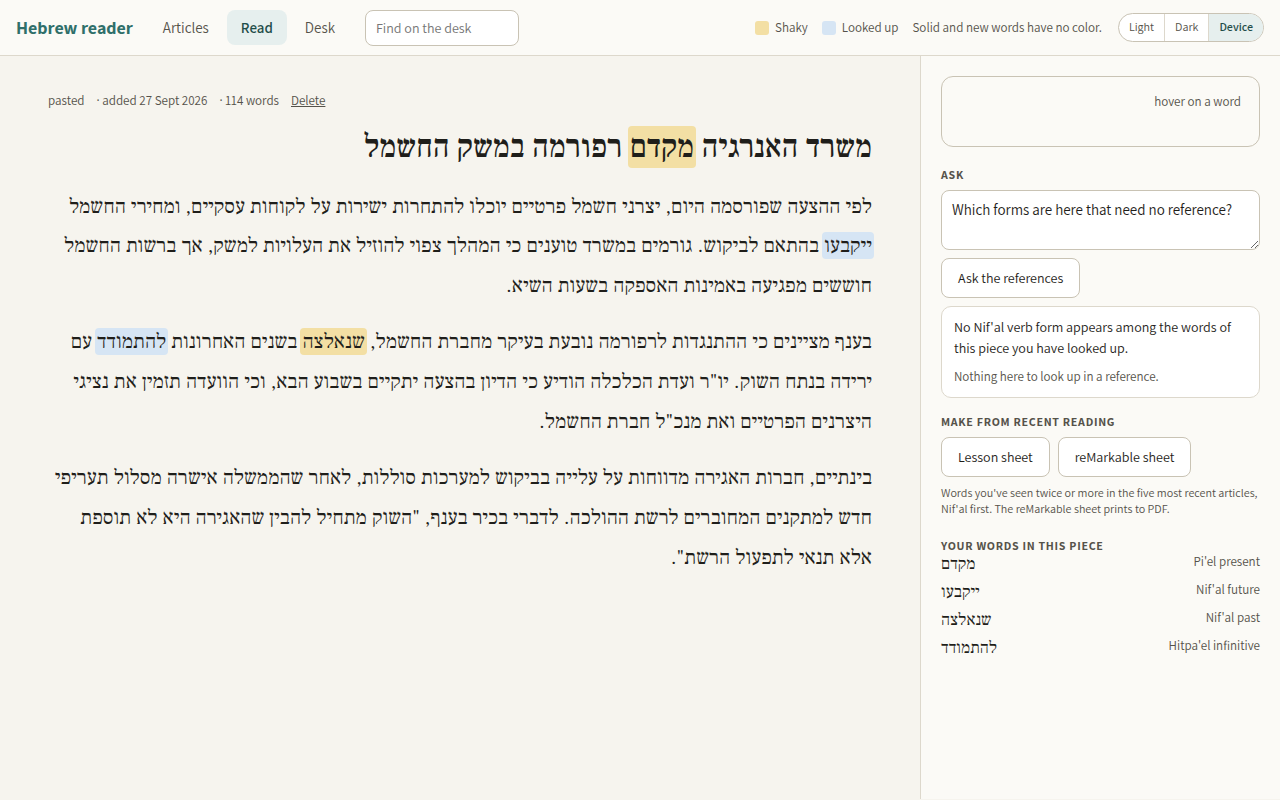
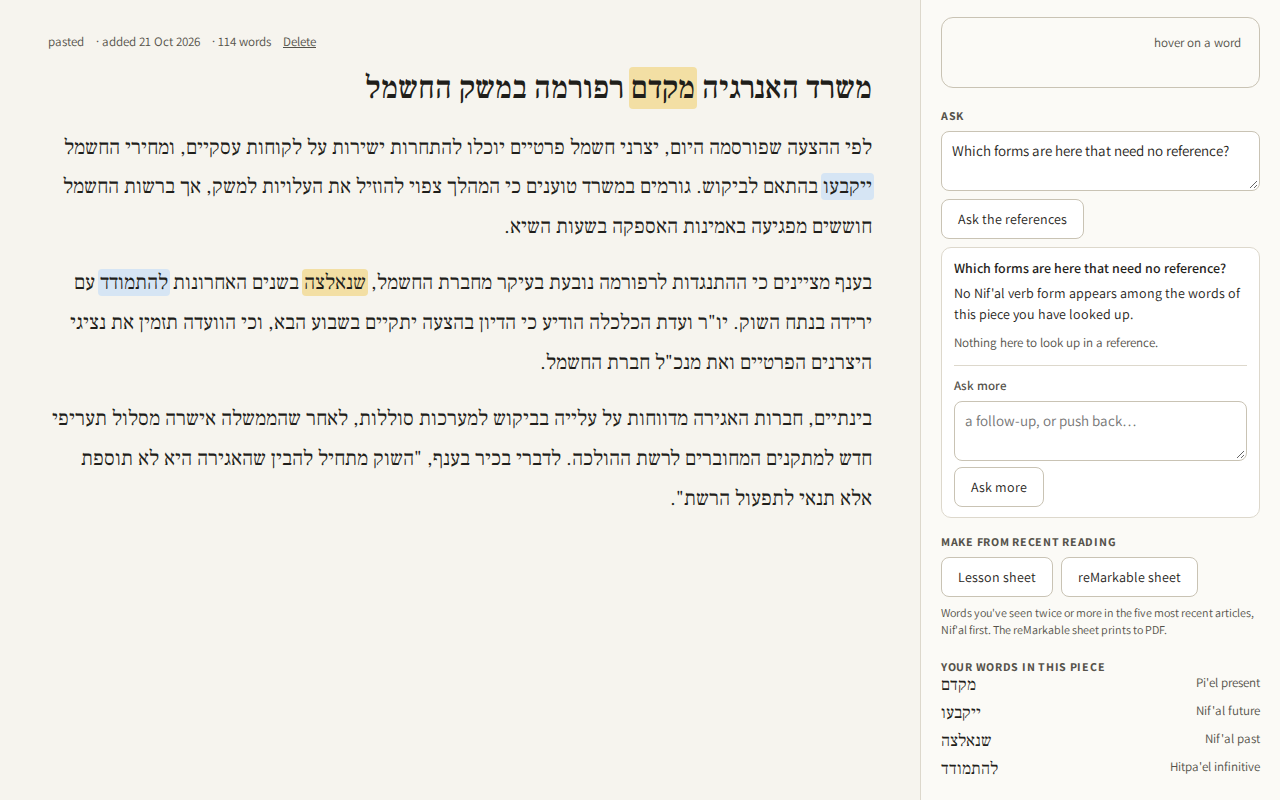
Ask step 2: the reader's Ask box asks the hebrew desk with subject article, its links the cited pages drawn as label and title, and Ask more sends a follow-up

diff --git a/public/ask.js b/public/ask.js
@@ -1,51 +1,78 @@
 'use strict';
-// The reader's Ask box: one question to the references through POST /ask,
-// the brief answer and its links drawn under it. The article's mapped words
-// go along so questions about this piece are answered from data.
+// The reader's Ask box: one question about this piece to the hebrew desk of
+// the ask surface (POST /ask, subject article, hebrew-ask-one), which
+// searches the references; the brief answer and the pages the search cited
+// are drawn under it. The article's mapped words go along so questions about
+// this piece are answered from data. Under a drawn answer, "Ask more" sends
+// a follow-up: the model is given the earlier questions and answers of this
+// thread first. A new question in the top box starts a new thread.
 //
-// An answer with no links is still an answer: it draws in the box with a
-// quiet line saying nothing came back to look up. The red line under the
-// button is only for a question the references could not be asked at all,
-// and the server's message says why.
+// An answer the search cited nothing for is still an answer: it draws with a
+// quiet line saying nothing came back to look up. The red line is only for a
+// question that could not be asked at all, and the server's message says why.
 
 (function () {
   const $ = (s) => document.querySelector(s);
-  const q = $('#ask-q'), go = $('#ask-go'), msg = $('#ask-msg'), box = $('#ask-answer');
+  const q = $('#ask-q'), go = $('#ask-go'), msg = $('#ask-msg'), box = $('#ask-answer'), thread = $('#ask-thread');
+  const moreQ = $('#ask-more-q'), moreGo = $('#ask-more-go'), moreMsg = $('#ask-more-msg');
+  let last = null; // the id of the thread's latest answer, the next follow-up's parent
 
-  async function ask() {
-    const question = q.value.trim();
-    msg.className = 'msg';
-    if (!question) { msg.className = 'msg error'; msg.textContent = 'Type a question first.'; return; }
-    go.disabled = true;
-    msg.textContent = 'asking…';
-    try {
-      const article = window.Reader.article;
-      const data = await window.Reader.api('POST', '/ask', { question, article_id: article ? article.id : undefined });
-      msg.textContent = '';
-      $('#ask-text').textContent = data.answer;
-      const links = $('#ask-links');
-      links.innerHTML = '';
-      for (const l of data.links || []) {
-        const li = document.createElement('li');
-        if (l.claim) { const c = document.createElement('span'); c.className = 'claim'; c.textContent = `${l.claim} · `; li.append(c); }
-        const a = document.createElement('a'); a.href = l.url; a.target = '_blank'; a.rel = 'noopener'; a.textContent = `${l.label}: `;
-        const t = document.createElement('span'); t.className = 'term'; t.textContent = l.term;
-        a.append(t);
-        li.append(a);
-        links.append(li);
-      }
-      if (!links.children.length) {
-        const li = document.createElement('li'); li.className = 'claim none'; li.textContent = 'Nothing here to look up in a reference.'; links.append(li);
-      }
-      box.classList.remove('hidden');
-    } catch (e) {
-      box.classList.add('hidden');
-      msg.className = 'msg error'; msg.textContent = e.message;
-    } finally {
-      go.disabled = false;
+  // Each citation as its reference's label and the page's title, opening the page in a new tab.
+  function drawLinks(ul, links) {
+    ul.innerHTML = '';
+    for (const l of links || []) {
+      const li = document.createElement('li');
+      const a = document.createElement('a'); a.href = l.url; a.target = '_blank'; a.rel = 'noopener';
+      const label = document.createElement('span'); label.className = 'ref-label'; label.textContent = l.label;
+      a.append(label);
+      // the title in its own direction (a Hebrew title reads right to left), after the separator
+      if (l.title) { const t = document.createElement('span'); t.className = 'ref-title'; t.dir = 'auto'; t.textContent = l.title; a.append(document.createTextNode(' · '), t); }
+      li.append(a);
+      ul.append(li);
+    }
+    if (!ul.children.length) {
+      const li = document.createElement('li'); li.className = 'claim none'; li.textContent = 'Nothing here to look up in a reference.'; ul.append(li);
     }
   }
 
+  function drawTurn(question, data) {
+    const turn = document.createElement('div'); turn.className = 'ask-turn'; turn.dataset.ask = data.id;
+    const qp = document.createElement('p'); qp.className = 'ask-question'; qp.dir = 'auto'; qp.textContent = question;
+    const ap = document.createElement('p'); ap.className = 'answer'; ap.textContent = data.answer;
+    const ul = document.createElement('ul'); ul.className = 'links';
+    drawLinks(ul, data.links);
+    turn.append(qp, ap, ul);
+    thread.append(turn);
+  }
+
+  async function send(field, button, line, parent) {
+    const question = field.value.trim();
+    line.className = 'msg';
+    if (!question) { line.className = 'msg error'; line.textContent = 'Type a question first.'; return; }
+    button.disabled = true;
+    line.textContent = 'asking…';
+    try {
+      const article = window.Reader.article;
+      const data = await window.Reader.api('POST', '/ask', { desk: 'hebrew', subject: { kind: 'article', article_id: article ? article.id : undefined }, question, parent: parent || undefined });
+      line.textContent = '';
+      if (!parent) thread.innerHTML = '';
+      drawTurn(question, data);
+      last = data.id;
+      field.value = parent ? '' : field.value;
+      box.classList.remove('hidden');
+    } catch (e) {
+      if (!parent) box.classList.add('hidden');
+      line.className = 'msg error'; line.textContent = e.message;
+    } finally {
+      button.disabled = false;
+    }
+  }
+
+  const ask = () => send(q, go, msg, null);
+  const askMore = () => send(moreQ, moreGo, moreMsg, last);
   go.addEventListener('click', ask);
-  q.addEventListener('keydown', (e) => { if (e.key === 'Enter' && !e.shiftKey) { e.preventDefault(); ask(); } });
+  moreGo.addEventListener('click', askMore);
+  for (const [field, fn] of [[q, ask], [moreQ, askMore]]) {
+    field.addEventListener('keydown', (e) => { if (e.key === 'Enter' && !e.shiftKey) { e.preventDefault(); fn(); } });
+  }
 })();

diff --git a/public/app.css b/public/app.css
@@ -254,7 +254,13 @@ h1.headline { margin: 0; direction: rtl; text-align: right; font-family: var(--s
 .ask-answer .he { direction: rtl; unicode-bidi: isolate; font-family: var(--serif); font-size: 16px; }
 .ask-answer .links { margin: 8px 0 0; padding: 0; list-style: none; display: flex; flex-direction: column; gap: 4px; font-size: 13px; }
 .ask-answer .links .claim { color: var(--muted); }
-.ask-answer .links .term { direction: rtl; unicode-bidi: isolate; font-family: var(--serif); font-size: 15px; }
+.ask-answer .links .ref-title { color: var(--muted); unicode-bidi: isolate; }
+/* hebrew-ask-one: a thread of questions and answers, then "Ask more" */
+.ask-thread { display: flex; flex-direction: column; gap: 12px; }
+.ask-turn + .ask-turn { border-top: 1px solid var(--line); padding-top: 10px; }
+.ask-question { margin: 0 0 4px; font-weight: 600; }
+.ask-more { display: flex; flex-direction: column; gap: 6px; margin-top: 12px; border-top: 1px solid var(--line); padding-top: 10px; }
+.ask-more-label { font-size: 13px; font-weight: 600; color: var(--muted); }
 .ask .make-title { margin-top: 8px; }
 .ask .make .btn { display: inline-flex; align-items: center; text-decoration: none; color: var(--text); }
 .ask .caption { margin: 0; font-size: 12px; color: var(--muted); line-height: 1.4; }

diff --git a/public/read.html b/public/read.html
@@ -67,8 +67,15 @@
         <span class="msg" id="ask-msg"></span>
       </div>
       <div class="ask-answer hidden" id="ask-answer">
-        <p class="answer" id="ask-text"></p>
-        <ul class="links" id="ask-links"></ul>
+        <div class="ask-thread" id="ask-thread"></div>
+        <div class="ask-more">
+          <label class="ask-more-label" for="ask-more-q">Ask more</label>
+          <textarea id="ask-more-q" rows="2" placeholder="a follow-up, or push back…"></textarea>
+          <div class="row">
+            <button class="btn" id="ask-more-go">Ask more</button>
+            <span class="msg" id="ask-more-msg"></span>
+          </div>
+        </div>
       </div>
       <h2 class="make-title">Make from recent reading</h2>
       <div class="row make">
